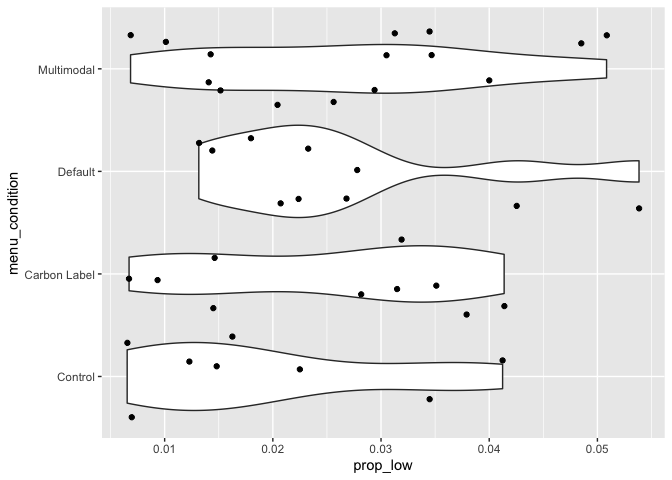
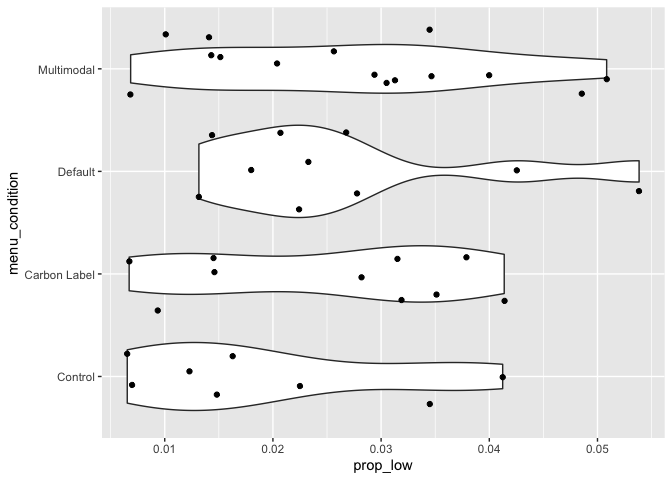
incorporated outstanding changes from last push; computed phase-level sample sizes for `fall_data`

diff --git a/scripts/cleaning-and-analysis.md b/scripts/cleaning-and-analysis.md
@@ -13586,6 +13586,214 @@ spring_prop_middle
 
 ![](cleaning-and-analysis_files/figure-gfm/unnamed-chunk-214-1.png)<!-- -->
 
+``` r
+fall_data %>%
+  filter(station=="Pasta"|station=="Grill"|station=="Ramen") %>%
+  filter(item_cat=="Main") %>%
+  summarise(sum(count))
+```
+
+    ##   sum(count)
+    ## 1      13837
+
+``` r
+spring_data %>%
+  filter(station=="Pasta"|station=="Grill"|station=="Ramen") %>%
+  filter(item_cat=="Main") %>%
+  summarise(sum(count))
+```
+
+    ##   sum(count)
+    ## 1      18894
+
+``` r
+fall_data %>%
+  filter(station=="Pasta"|station=="Grill"|station=="Ramen") %>%
+  filter(item_cat=="Main") %>%
+  distinct(date)
+```
+
+    ##      date
+    ## 1  16-Oct
+    ## 2  17-Oct
+    ## 3  18-Oct
+    ## 4  21-Oct
+    ## 5  22-Oct
+    ## 6  23-Oct
+    ## 7  24-Oct
+    ## 8  25-Oct
+    ## 9  28-Oct
+    ## 10 29-Oct
+    ## 11 30-Oct
+    ## 12 31-Oct
+    ## 13  1-Nov
+    ## 14  4-Nov
+    ## 15  5-Nov
+    ## 16  6-Nov
+    ## 17  7-Nov
+    ## 18  8-Nov
+    ## 19 11-Nov
+    ## 20 12-Nov
+    ## 21 13-Nov
+    ## 22 14-Nov
+    ## 23 15-Nov
+    ## 24 18-Nov
+    ## 25 19-Nov
+    ## 26 20-Nov
+    ## 27 21-Nov
+    ## 28 22-Nov
+    ## 29 25-Nov
+    ## 30 26-Nov
+    ## 31  2-Dec
+    ## 32  3-Dec
+    ## 33  4-Dec
+    ## 34  5-Dec
+    ## 35  6-Dec
+    ## 36  9-Dec
+    ## 37 10-Dec
+    ## 38 11-Dec
+    ## 39 12-Dec
+    ## 40 13-Dec
+    ## 41 16-Dec
+    ## 42 17-Dec
+    ## 43 18-Dec
+    ## 44 19-Dec
+    ## 45 20-Dec
+
+``` r
+spring_data %>%
+  filter(station=="Pasta"|station=="Grill"|station=="Ramen") %>%
+  filter(item_cat=="Main") %>%
+  distinct(date)
+```
+
+    ##      date
+    ## 1  21-Jan
+    ## 2  22-Jan
+    ## 3  23-Jan
+    ## 4  24-Jan
+    ## 5  27-Jan
+    ## 6  28-Jan
+    ## 7  29-Jan
+    ## 8  30-Jan
+    ## 9  31-Jan
+    ## 10  3-Feb
+    ## 11  4-Feb
+    ## 12  5-Feb
+    ## 13  6-Feb
+    ## 14  7-Feb
+    ## 15 10-Feb
+    ## 16 11-Feb
+    ## 17 12-Feb
+    ## 18 13-Feb
+    ## 19 14-Feb
+    ## 20 19-Feb
+    ## 21 20-Feb
+    ## 22 21-Feb
+    ## 23 24-Feb
+    ## 24 25-Feb
+    ## 25 26-Feb
+    ## 26 27-Feb
+    ## 27 28-Feb
+    ## 28  3-Mar
+    ## 29  4-Mar
+    ## 30  5-Mar
+    ## 31  6-Mar
+    ## 32  7-Mar
+    ## 33 10-Mar
+    ## 34 11-Mar
+    ## 35 12-Mar
+    ## 36 13-Mar
+    ## 37 14-Mar
+    ## 38 17-Mar
+    ## 39 18-Mar
+    ## 40 19-Mar
+    ## 41 20-Mar
+    ## 42 21-Mar
+    ## 43 24-Mar
+    ## 44 25-Mar
+    ## 45 26-Mar
+    ## 46 27-Mar
+    ## 47 28-Mar
+    ## 48  7-Apr
+    ## 49  8-Apr
+    ## 50  9-Apr
+    ## 51 10-Apr
+    ## 52 11-Apr
+    ## 53 14-Apr
+    ## 54 15-Apr
+    ## 55 16-Apr
+    ## 56 17-Apr
+    ## 57 18-Apr
+
+``` r
+fall_data %>%
+  distinct(item)
+```
+
+    ##                                item
+    ## 1        Quesadilla Deluxe Trillium
+    ## 2                 Grilled Hamburger
+    ## 3             Fried Chicken Tenders
+    ## 4     Burrito Una Mano Trillium BYO
+    ## 5                      French Fries
+    ## 6                 Quesadilla Cheese
+    ## 7   Grilled Chicken Breast Sandwich
+    ## 8              Seared Salmon Burger
+    ## 9  Trillium Grill Impossible Burger
+    ## 10               Sweet Potato Fries
+    ## 11                     + Beef Patty
+    ## 12                Black Bean Burger
+    ## 13      Add Impossible Burger Patty
+    ## 14                      Add Egg .99
+    ## 15                       ADD Cheese
+    ## 16              Add Sausage 2 Patty
+    ## 17        ADD Burger Salmon Grilled
+    ## 18                1 Entree + 1 Side
+    ## 19                1 Entree + 2 Side
+    ## 20               Bowl Ramen Chicken
+    ## 21              2 Entrees + 2 Sides
+    ## 22                  Bowl Ramen Tofu
+    ## 23          Side Vegetarian Lo Mein
+    ## 24           Side Fried Spring Roll
+    ## 25         Side White or Brown Rice
+    ## 26      Side Vegetable Spring Rolls
+    ## 27                     1 Wok Entree
+    ## 28                  Side Vegetables
+    ## 29  Side Vegetarian Fried Rice with
+    ## 30      Create Your Pasta Bowl MEAT
+    ## 31       Create Your Pasta Bowl VEG
+    ## 32                     Pizza Cheese
+    ## 33                   Add Extra Meat
+    ## 34              Pizza with Toppings
+    ## 35         Side Bread Pasta Station
+    ## 36                Burrito Breakfast
+    ## 37              Small French Omelet
+    ## 38 Egg Cheese Sausage Breakfast San
+    ## 39 Egg Cheese Bacon Breakfast Sandw
+    ## 40             Grand Slam Breakfast
+    ## 41                        Add Bacon
+    ## 42                         Two Eggs
+    ## 43                   Pancake Single
+    ## 44                   2 Slices Toast
+    ## 45              Trillium Home Fries
+    ## 46                 Burrito Bowl BYO
+    ## 47                      Single Taco
+    ## 48                  Side Sour Cream
+    ## 49               Salad by the Pound
+    ## 50           Add Extra Protein 2.99
+    ## 51                       Soup 12 oz
+    ## 52                        8 oz Soup
+    ## 53                 Side Potato Tots
+    ## 54               ADD Chicken Breast
+    ## 55                            Toast
+    ## 56                   Side Guacamole
+    ## 57                       Side Salsa
+    ## 58      Add Extra Toppings Una Mano
+    ## 59                         PC Jelly
+    ## 60                 PC Peanut Butter
+    ## 61               Add Extra Toppings
+
 REVISE FIGURE NAMING NOMENCLATURE from semester-station-outcome TO
 SEMESTER-OUTCOME-STATION
 
@@ -13623,7 +13831,7 @@ grill_prop_middle_s2
 
     ## `geom_smooth()` using method = 'loess' and formula = 'y ~ x'
 
-![](cleaning-and-analysis_files/figure-gfm/unnamed-chunk-215-1.png)<!-- -->
+![](cleaning-and-analysis_files/figure-gfm/unnamed-chunk-220-1.png)<!-- -->
 
 ``` r
 daily_prop_spring_data %>%
@@ -13644,7 +13852,7 @@ daily_prop_spring_data %>%
 
     ## `geom_smooth()` using method = 'loess' and formula = 'y ~ x'
 
-![](cleaning-and-analysis_files/figure-gfm/unnamed-chunk-216-1.png)<!-- -->
+![](cleaning-and-analysis_files/figure-gfm/unnamed-chunk-221-1.png)<!-- -->
 
 ## Preliminary Checks
 
@@ -14212,7 +14420,7 @@ foot_traffic_data %>%
     ## `summarise()` has grouped output by 'menu_condition'. You can override using
     ## the `.groups` argument.
 
-![](cleaning-and-analysis_files/figure-gfm/unnamed-chunk-239-1.png)<!-- -->
+![](cleaning-and-analysis_files/figure-gfm/unnamed-chunk-244-1.png)<!-- -->
 
 sales_data %\>% mutate(item_cat=case_when(item==“Quesadilla Deluxe
 Trillium”~“Main”, item==“Grilled Hamburger”~“Main”, item==“Fried Chicken
